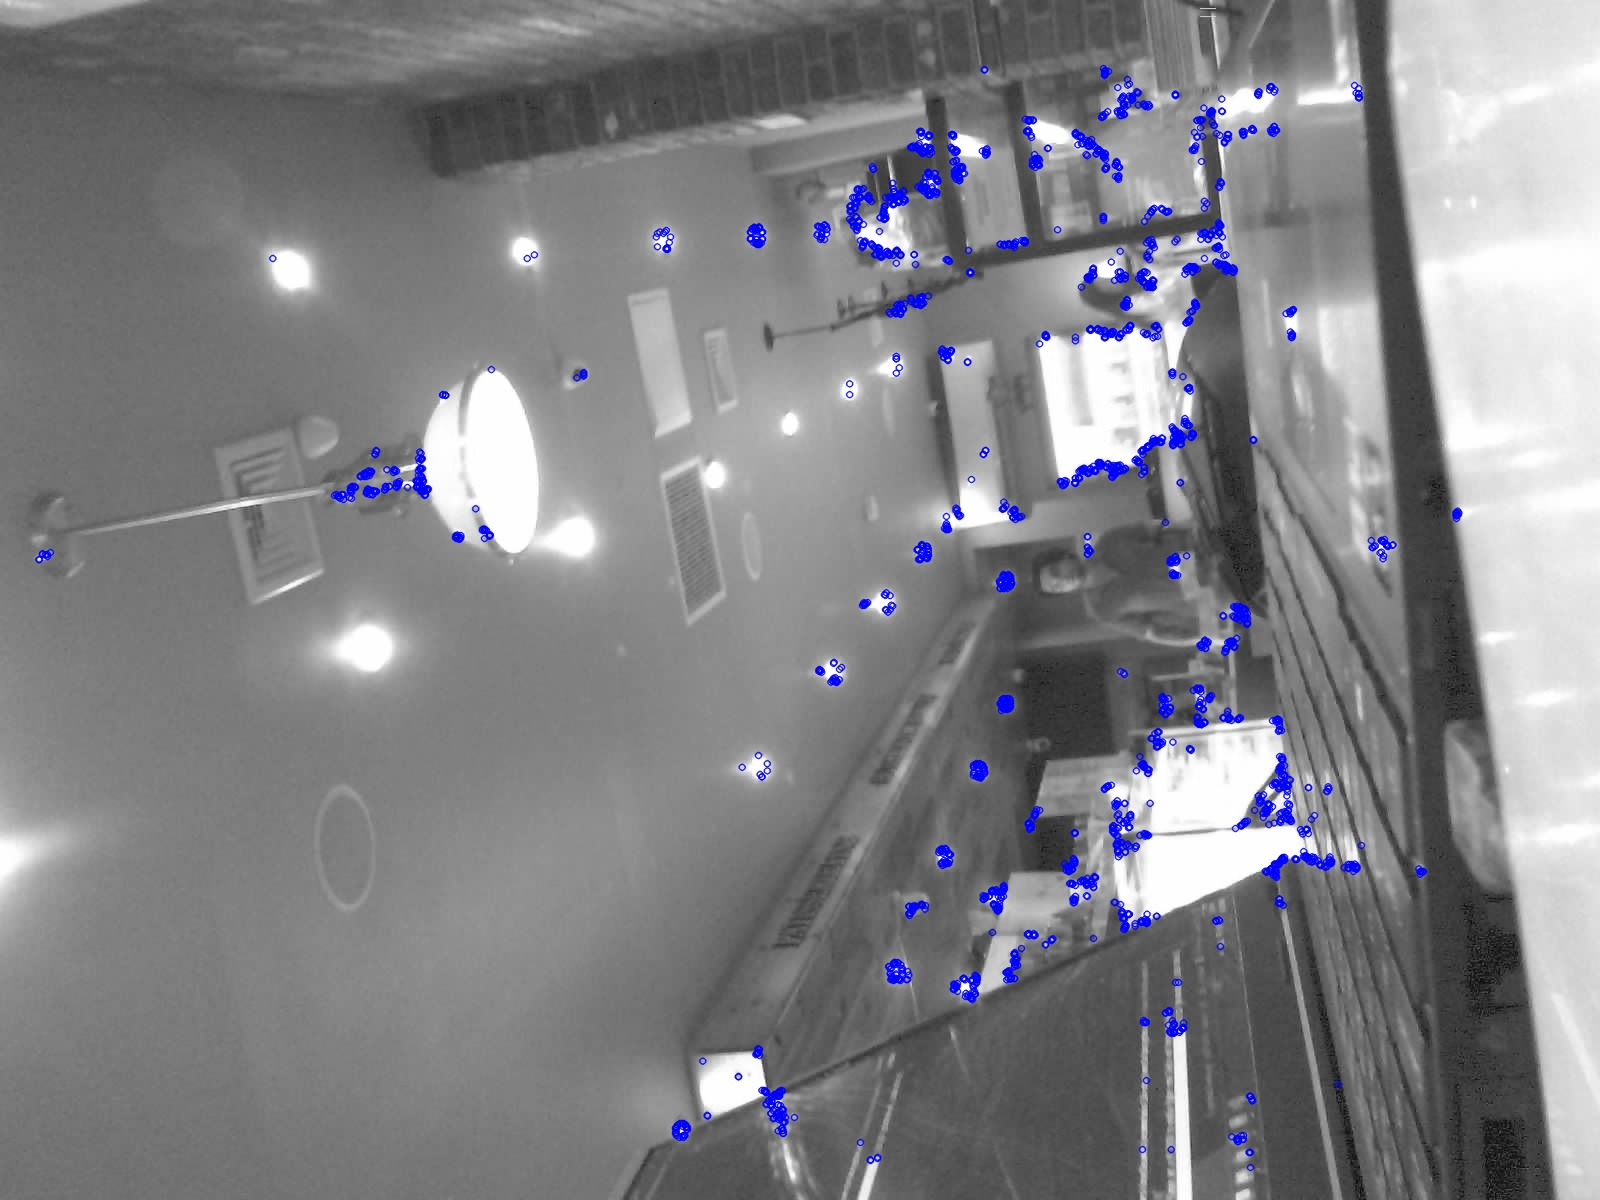
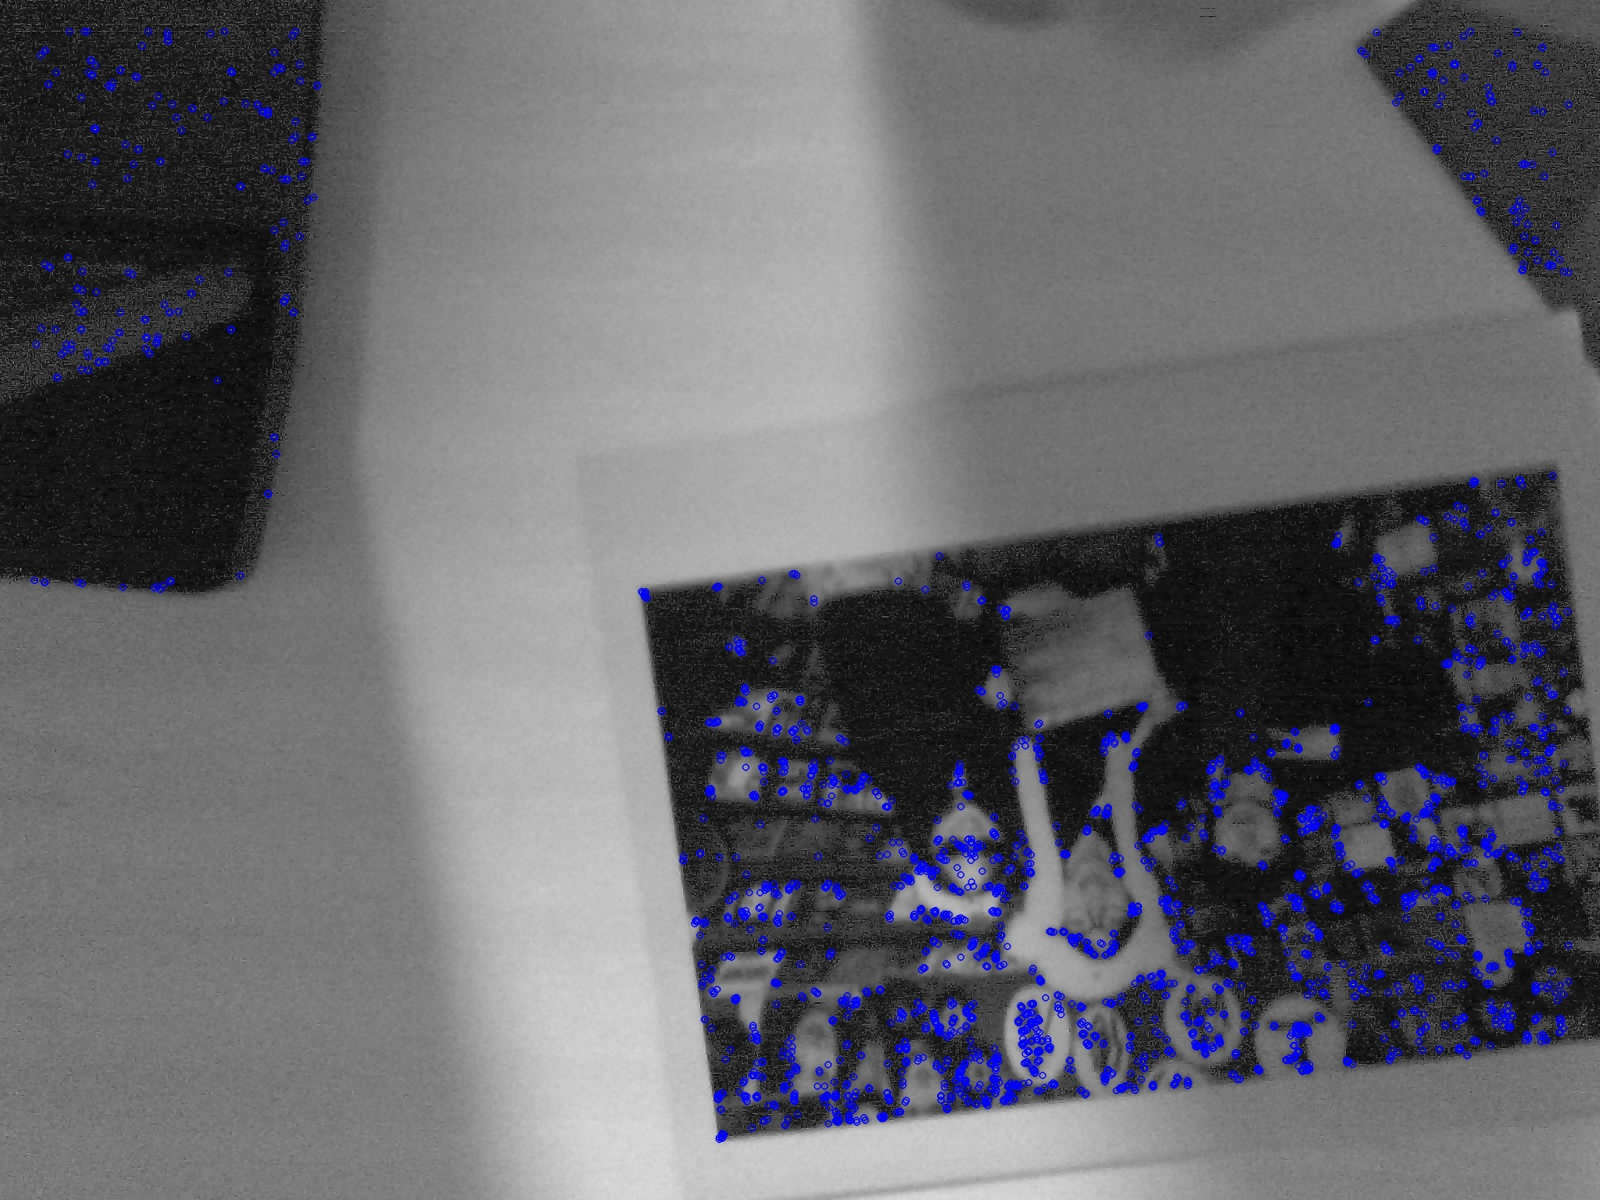
tweaked algorithm to be more complex in reasoning matches. reason: tested with other images and realized ORB was failing badly but DINO was doing great. NOW USE DINO AS PRIMARY DECIDER, DINO VERY STRONG -> DINO MATCH, DINO STRONG -> ORB DECIDES BEST, DINO DECENT BUT ORB STRONG -> MATCH

diff --git a/memory record player/image matching opencv.py b/memory record player/image matching opencv.py
@@ -7,16 +7,18 @@ import torch.nn.functional as F
 from PIL import Image
 from transformers import AutoImageProcessor, AutoModel
 
-ESP32_URL        = "http://192.168.1.184:81/jpeg"
+ESP32_URL        = "http://192.168.2.151:81/jpeg"
 DATASET_FOLDER = "memory record player/image_dataset"
 output_folder = "memory record player/match_results"
 
-MAX_KEYPOINTS    = 3000   # more = slower but more accurate
-MATCH_THRESHOLD  = 0.80  # Lowe's ratio test — lower = stricter (0.6–0.8 typical)
-GOOD_MATCH_MIN   = 20     # minimum RANSAC inliers to consider a positive match
+MAX_KEYPOINTS    = 3000  # more = slower but more accurate
+MATCH_THRESHOLD  = 0.8 # Lowe's ratio test — lower = stricter (0.6–0.8 typical)
+GOOD_MATCH_MIN   = 15     # minimum RANSAC inliers to consider a positive match
 RANSAC_THRESHOLD = 5.0    # max pixel reprojection error for RANSAC inlier (lower = stricter)
 TOP_DINO_MATCHES   = 3     # number of top DINO matches to consider for final decision
-DINO_MATCH_MIN   = 0.40    # minimum DINO similarity required to accept final match
+DINO_DECENT_MIN   = 0.25    # minimum DINO similarity to consider a decent match
+DINO_STRONG_MIN  = 0.35    # strong DINO similarity can accept match even if ORB is weak
+DINO_MARGIN_MIN  = 0.08    # DINO must beat second-best score by this much to override ORB
 
 DINO_MODEL_NAME = "facebook/dinov2-base"
 
@@ -50,6 +52,22 @@ def get_dino_embedding(image_bgr):
 def get_dino_similarity(embedding1, embedding2):
     similarity = torch.matmul(embedding1, embedding2.T).item() #dot products both embeddings and returns single float
     return similarity 
+
+def classify_match(dino_score, inliers, dino_margin, is_best_dino):
+    orb_strong = inliers >= GOOD_MATCH_MIN
+    dino_decent = dino_score >= DINO_DECENT_MIN
+    dino_strong = dino_score >= DINO_STRONG_MIN and dino_margin >= DINO_MARGIN_MIN and is_best_dino
+
+    if dino_strong:
+        return True, "DINO strong"
+
+    if orb_strong and dino_decent:
+        return True, "ORB strong + DINO decent"
+
+    if orb_strong and not dino_decent:
+        return False, "ORB false positive"
+
+    return False, "No confident match"
 
 def get_image_from_esp32(): 
     response = requests.get(ESP32_URL)
@@ -115,11 +133,21 @@ for filename in os.listdir(DATASET_FOLDER):
 dino_candidates = sorted(dino_candidates, key=lambda x: x["dino_score"], reverse=True) #sorts all digital images by DINO score
 top_dino_candidates = dino_candidates[:TOP_DINO_MATCHES] #shortlists top DINO matches, 3 for now
 
+best_dino_score = top_dino_candidates[0]["dino_score"]
+
+if len(top_dino_candidates) > 1:
+    second_dino_score = top_dino_candidates[1]["dino_score"]
+else:
+    second_dino_score = 0
+
+dino_margin = best_dino_score - second_dino_score
+
 # Second loop: run ORB/RANSAC only on the top DINO matches
 for candidate in top_dino_candidates:
     filename = candidate["filename"]
     im2_gray = candidate["im2_gray"]
     dino_score = candidate["dino_score"]
+    is_best_dino = filename == top_dino_candidates[0]["filename"]
 
     keypoints1, descriptors1 = orb.detectAndCompute(im1_gray, None) #detect ORB keypoints and compute descriptors
     keypoints2, descriptors2 = orb.detectAndCompute(im2_gray, None)
@@ -128,11 +156,14 @@ for candidate in top_dino_candidates:
     cv2.imwrite(os.path.join(output_folder, f"kp_{filename}"), im2_display)
 
     if descriptors1 is None or descriptors2 is None:
+        is_match, match_reason = classify_match(dino_score, 0, dino_margin, is_best_dino)
+
         results.append({
             "filename": filename,
             "inliers": 0,
             "dino_score": dino_score,
-            "is_match": False
+            "is_match": is_match,
+            "match_reason": match_reason
         })
         continue
 
@@ -164,13 +195,13 @@ for candidate in top_dino_candidates:
             mask = mask.ravel().tolist()
             inlier_matches = [good_matches[i] for i in range(len(good_matches)) if mask[i]]
 
-    is_match = len(inlier_matches) >= GOOD_MATCH_MIN and dino_score >= DINO_MATCH_MIN #match if minimum threshold is reached
-
+    is_match, match_reason = classify_match(dino_score, len(inlier_matches), dino_margin, is_best_dino) #match if DINO is strong, or if ORB is strong and DINO is decent
     results.append({
         "filename": filename,
         "inliers": len(inlier_matches),
         "dino_score": dino_score,
-        "is_match": is_match
+        "is_match": is_match,
+        "match_reason": match_reason
     })
 
     im_matches = cv2.drawMatches(im1_gray, keypoints1, im2_gray, keypoints2, inlier_matches, None)
@@ -185,15 +216,24 @@ if len(results) > 0:
         print(f"  DINOv3 similarity: {result['dino_score']:.4f}")
         print(f"  ORB/RANSAC inliers: {result['inliers']}")
         print(f"  Match: {'YES' if result['is_match'] else 'NO'}")
+        print(f"  Reason: {result['match_reason']}")
 
     print("\n===== FINAL MATCH =====")
 
     if len(confirmed_results) > 0:
-        best_match = max(confirmed_results, key=lambda x: x["inliers"])
+        best_match = max(
+            confirmed_results,
+            key=lambda x: (
+                x["match_reason"] == "DINO strong",
+                x["inliers"] if x["match_reason"] != "DINO strong" else x["dino_score"],
+                x["dino_score"]
+            )
+        )
 
         print(f"File: {best_match['filename']}")
         print(f"Inliers: {best_match['inliers']}")
         print(f"DINOv3 similarity: {best_match['dino_score']:.4f}")
+        print(f"Reason: {best_match['match_reason']}")
         print("Match: YES")
     else:
         best_dino = max(results, key=lambda x: x["dino_score"])
@@ -202,6 +242,7 @@ if len(results) > 0:
         print(f"Closest DINO candidate: {best_dino['filename']}")
         print(f"DINOv3 similarity: {best_dino['dino_score']:.4f}")
         print(f"ORB/RANSAC inliers: {best_dino['inliers']}")
+        print(f"Reason: {best_dino['match_reason']}")
         print("Match: NO")
 
 print(f"\nDone. Results saved to '{output_folder}/'")
